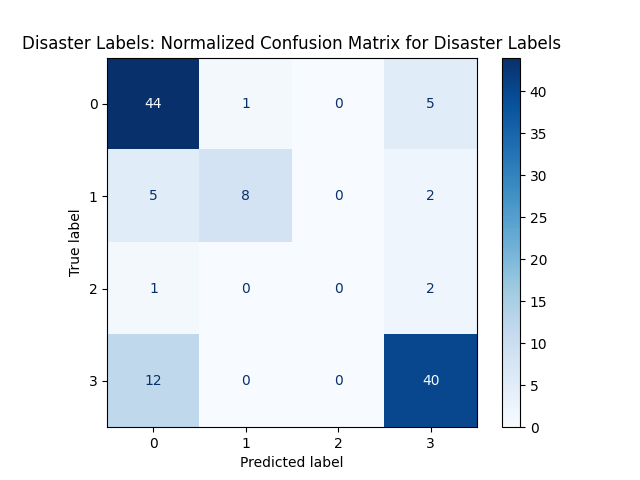
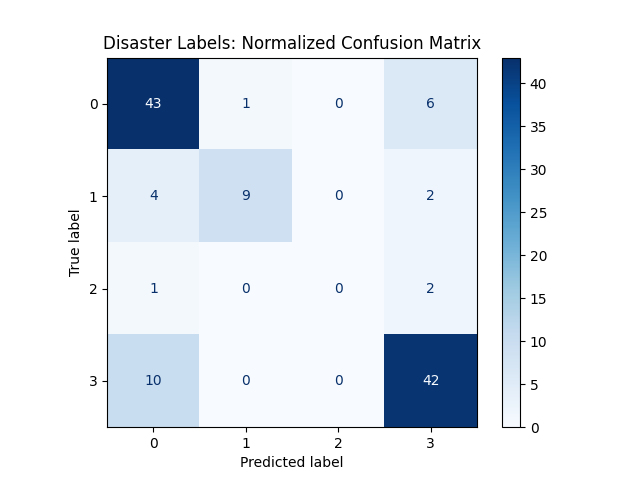
add label model

diff --git a/disaster_type_model.py b/disaster_type_model.py
@@ -1,5 +1,3 @@
-#https://ds100.org/fa25/gradproject-cv/#milestone-4-project-report-first-draft-20---wednesday-november-19-2025
-
 import numpy as np
 from sklearn.model_selection import StratifiedKFold
 from sklearn.metrics import accuracy_score, confusion_matrix, f1_score
@@ -7,24 +5,23 @@ from sklearn.ensemble import GradientBoostingClassifier
 from sklearn.decomposition import PCA
 import matplotlib.pyplot as plt
 from sklearn.metrics import ConfusionMatrixDisplay
-from sklearn.preprocessing import label_binarize
-from sklearn.metrics import roc_curve, auc
 
 
-
-gabor_mean = np.load("npy_files/gabor_mean_all.npy")
-sobel_edge = np.load("npy_files/sobel_edges0.4_all.npy")
-sobel_mean = np.load("npy_files/sobel_mean_all.npy")
-sobel_var = np.load("npy_files/sobel_var_all.npy")
 lbp_mean = np.load("npy_files/lbp_mean_all.npy")
 entropy_mean = np.load("npy_files/entropy_mean_all.npy")
 blue = np.load("npy_files/mean_B.npy")
 green = np.load("npy_files/mean_G.npy")
+red = np.load("npy_files/mean_R.npy")
 
-features = ['gabor','sobel_edge','sobel_mean','sobel_var','lbp_mean', 'entropy_mean', 'blue', 'green']
-X = np.concatenate([gabor_mean, sobel_edge, sobel_mean, sobel_var, lbp_mean,  entropy_mean, blue , green], axis=1)
-Y = np.load("npy_files/disaster_labels.npy")
+features = ['lbp_mean', 'entropy_mean', 'blue', 'green']
+X = np.concatenate([ lbp_mean,  entropy_mean, blue, green], axis=1)
+Y = np.load("npy_files/disaster_types.npy")
 
+label_legend = {
+    0: "hurricane-matthew",
+    1: "midwest-flooding",
+    2: "socal-fire"
+}
 
 def stratified_CV(X, Y, model, n_split=5, metric=accuracy_score):
     skf = StratifiedKFold(n_splits=n_split, shuffle=True, random_state=42)
@@ -50,32 +47,36 @@ def run_model(X, Y, n):
     print(f"K1 Score = {mean_score}")
     print(f"Values = {values}")
 
-    
-    disp = ConfusionMatrixDisplay(confusion_matrix=matrix, display_labels=np.unique(Y))
-    disp.plot(cmap=plt.cm.Blues)
-    plt.title("Disaster Labels: Confusion Matrix for the Final Fold")
-    plt.savefig("images/dLabel_confusion_matrix.png", format="png")
+    labels = [label_legend[y] for y in np.unique(Y)]
+    disp = ConfusionMatrixDisplay(confusion_matrix=matrix, display_labels=labels)
+    disp.plot(cmap="Oranges", values_format='d', xticks_rotation= 45)
+    plt.title("Disaster Types: Confusion Matrix for the Final Fold")
+    plt.tight_layout()
+    plt.savefig("images/dType_confusion_matrix.png", format="png")
     plt.close()
 
-    plt.plot(np.arange(1, n+1), values, marker='o')
+    plt.plot(np.arange(1, n+1), values, marker='o', color= 'orange')
     plt.xlabel("Fold")
     plt.ylabel("Weighted F1 Score")
-    plt.title("Disaster Labels: Per-Fold F1 Scores")
+    plt.title("Disaster Types: Per-Fold F1 Scores")
     plt.ylim(0,1)
     plt.xticks(np.arange(1, n+1))
-    plt.savefig("images/dLabel_KFold.png", format="png")
+    plt.savefig("images/dType_KFold.png", format="png")
     plt.close()
 
 
     importances = model.feature_importances_
     plt.figure(figsize=(10,6))
-    plt.bar(range(len(importances)), importances)
+    plt.bar(range(len(importances)), importances, color="orange")
     plt.xticks(range(len(importances)), features)
     plt.ylabel("Feature Importance")
     plt.ylabel("Feature Type")
-    plt.title("Disaster Labels: Gradient Boosted Tree Feature Importances")
-    plt.savefig("images/dLabel_importances.png", format="png")
+    plt.title("Disaster Types: Gradient Boosted Tree Feature Importances")
+    plt.savefig("images/dType_importances.png", format="png")
     plt.close()
     
 
 run_model(X,Y, 5)
+
+
+

diff --git a/make_type_labels.py b/make_type_labels.py
@@ -1,0 +1,28 @@
+import numpy as np
+
+
+from load import run
+
+disaster_list = ["hurricane-matthew", "midwest-flooding", "socal-fire"]
+data = run(disaster_list)
+
+
+
+
+
+disaster_to_idx = {
+    "hurricane-matthew": 0,
+    "midwest-flooding": 1,
+    "socal-fire": 2
+}
+
+Y = []
+
+for d in disaster_list:
+    n = len(data[d]["labels"])
+    label = disaster_to_idx[d]
+    Y.append(np.full(n, label))
+
+Y = np.concatenate(Y)
+
+np.save("npy_images/disaster_types.npy", Y)
